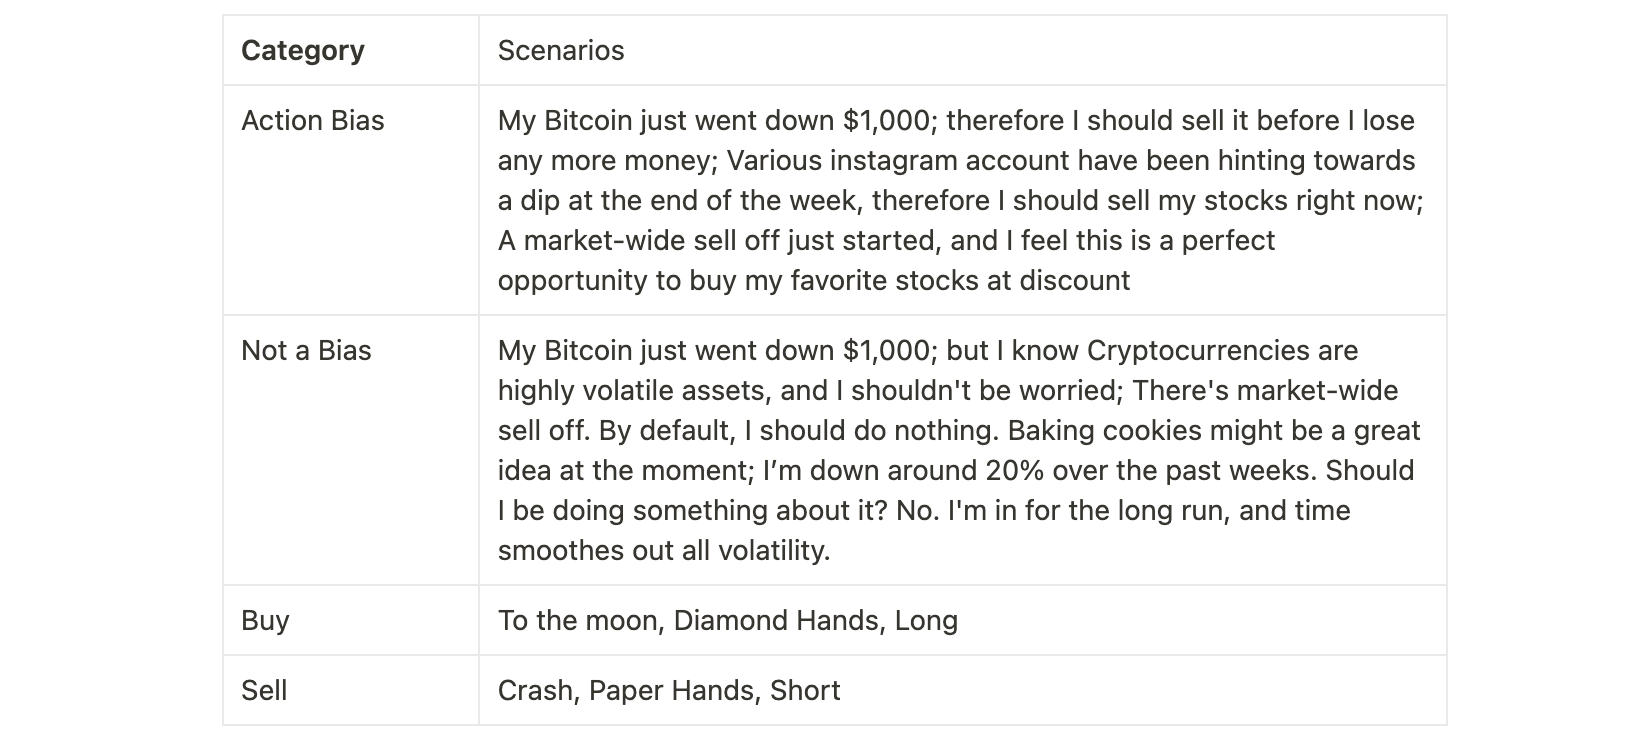
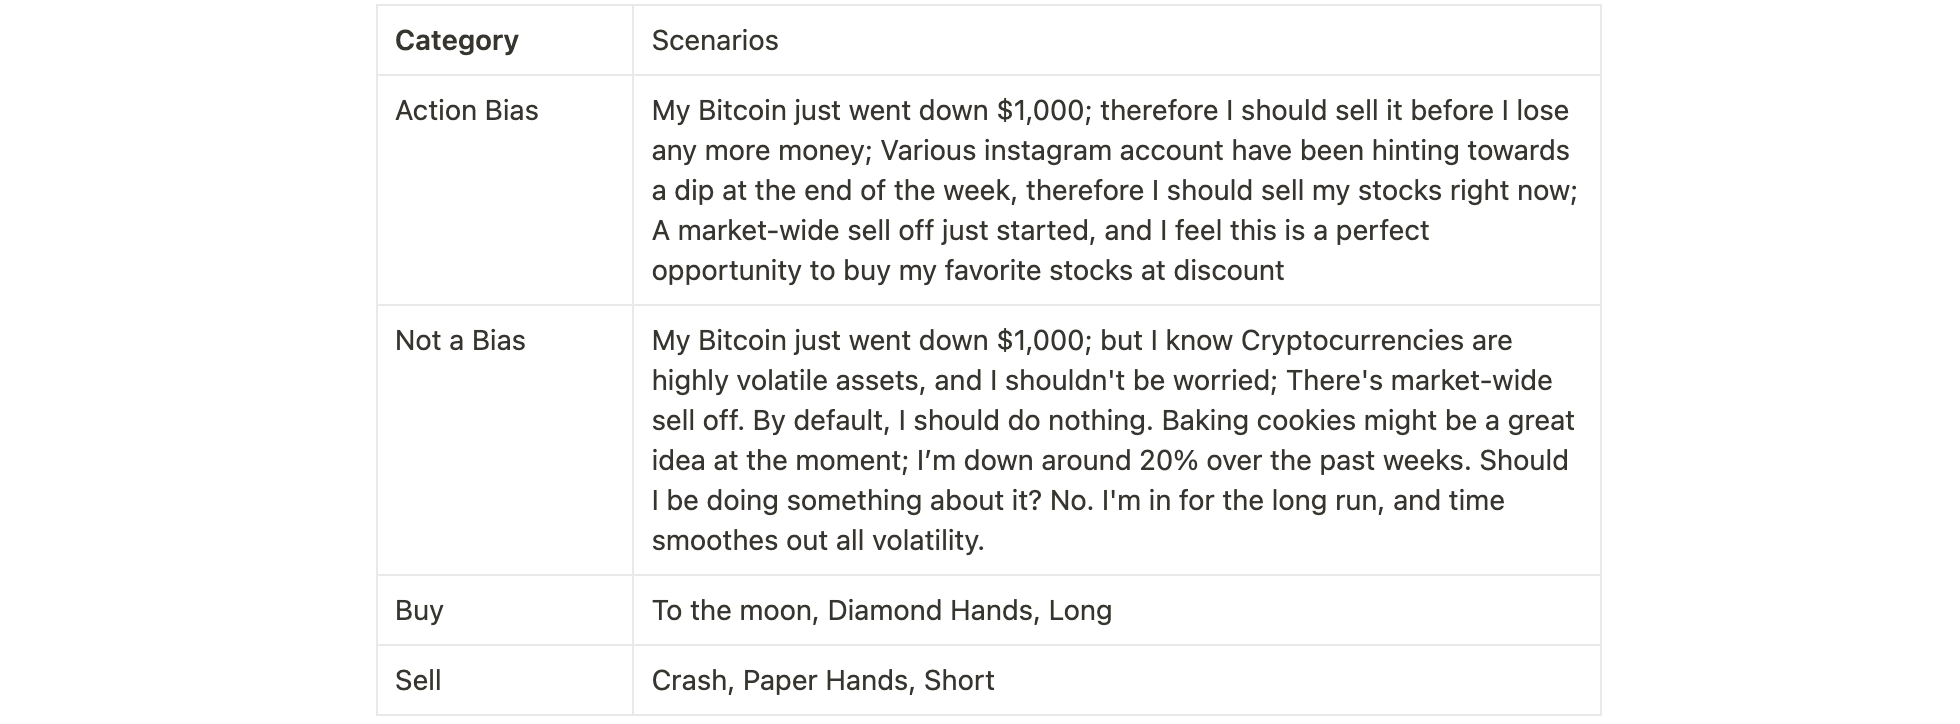
ui improvements - bias test

diff --git a/src/components/BiasTest.js b/src/components/BiasTest.js
@@ -12,8 +12,8 @@ import { doc, setDoc } from 'firebase/firestore';
 const useStyles = makeStyles((theme) => ({
   root: {
     width: '1200px',
-    height: '750px',
-    margin: '20px',
+    height: '700px',
+    margin: '30px',
     backgroundColor: 'white',
     textAlign: 'center',
   },
@@ -30,6 +30,7 @@ const useStyles = makeStyles((theme) => ({
     textAlign: 'center',
     padding: '1px',
     color: 'red',
+    fontWeight: 600,
   },
   text4: {
     textAlign: 'center',

diff --git a/src/components/Result.js b/src/components/Result.js
@@ -149,7 +149,7 @@ const Result = ({ biases }) => {
             style={{ textDecoration: 'none', color: '#0065bd' }}
             onClick={feedbackClicked}
           >
-            Was this helpful? <b>Let us know what you think!</b>
+            Was this helpful? <b> Let us know what you think!</b>
           </Button>
         </div>
       )}
